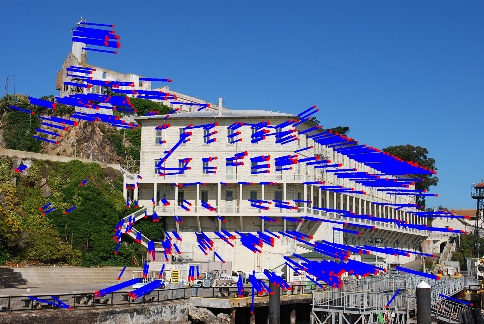
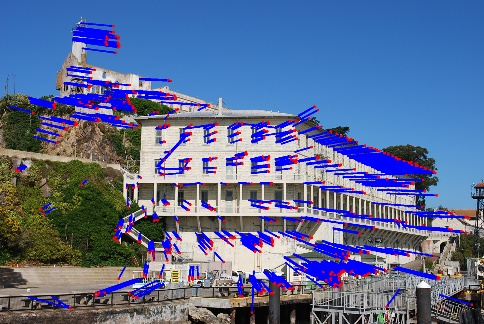
-

diff --git a/vision/vision_20recons/vision_20recons.tex b/vision/vision_20recons/vision_20recons.tex
@@ -2,6 +2,8 @@
 \begin{document}
 Iki Imaj Kullanarak 3 Boyutta Tekrar Olusturmak (3D Reconstruction from Two Images)
 
+Temel Matris ve 8-Nokta Algoritmasi 
+
 \begin{minted}[fontsize=\footnotesize]{python}
 from mpl_toolkits.mplot3d import axes3d
 import scipy.linalg as lin
@@ -56,34 +58,40 @@ cv2.imwrite('vision_20recons_01.jpg',tmp)
 for pt in pts2: cv2.circle(img2,tuple(pt),5,(0,0,255),-1)
 tmp = cv2.resize(img2, (int(w/4),int(h/4)))
 cv2.imwrite('vision_20recons_02.jpg',tmp)
+
+pts1 = np.array(pts1)
+pts2 = np.array(pts2)
+
+h,w,dum = img1.shape
+pts1[:,1] = h-pts1[:,1]
+pts2[:,1] = h-pts2[:,1]
 \end{minted}
 
 \begin{verbatim}
-matches 1277
-Out[1]: 
-True
+matches 1290
 \end{verbatim}
 
 \includegraphics[width=30em]{vision_20recons_01.jpg}
 
 \includegraphics[width=30em]{vision_20recons_02.jpg}
 
-
 \begin{minted}[fontsize=\footnotesize]{python}
 # kamera matrisi biliniyor
 K = np.array([[2394,0,932],[0,2398,628],[0,0,1]])
 
-h,w,dum = img1.shape
-pts1[:,1] = h-pts1[:,1]
-pts2[:,1] = h-pts2[:,1]
-
 F, mask = cv2.findFundamentalMat(pts1,pts2)
 
 E = K.T.dot(F).dot(K)
+print F
 
 R1,R2,t = cv2.decomposeEssentialMat(E)
 \end{minted}
 
+\begin{verbatim}
+[[ -5.44722052e-08   9.22019433e-07   1.17985628e-03]
+ [ -1.26508496e-06   7.74814744e-07   1.15134028e-02]
+ [ -1.29297913e-03  -1.31947419e-02   1.00000000e+00]]
+\end{verbatim}
 
 \begin{minted}[fontsize=\footnotesize]{python}
 def triangulate_point(u1, u2, P1, P2):
@@ -104,7 +112,6 @@ def triangulate_point(u1, u2, P1, P2):
 def triangulate(x1, x2, P1, P2):
   X = [triangulate_point(x1[i, :], x2[i, :], P1, P2) for i in range(len(x1))]
   return np.array(X).T
-
 
 P1 = np.eye(4)
 P2 = np.array([[ 0.878, -0.01 ,  0.479, -1.995],
@@ -136,13 +143,10 @@ x [ 0.09099773  0.36408896  1.        ]
 x2 [ 0.4200205   0.38890029  1.        ]
 \end{verbatim}
 
-
 \begin{minted}[fontsize=\footnotesize]{python}
 for i,P in enumerate(((R1,t),(R1,-t),(R2,t),(R2,-t))):
 
     P1 = K.dot(np.hstack(P))       # Projection matrix of second cam is ready
-    print 'P', P1
-
     P00 = np.float64([ [1,0,0,0],
                        [0,1,0,0],
                        [0,0,1,0]   ]) # Projection matrix of first cam at origin
@@ -154,9 +158,13 @@ for i,P in enumerate(((R1,t),(R1,-t),(R2,t),(R2,-t))):
     ax = fig.gca(projection='3d')    
     ax.plot(X[0], X[2], X[1], 'r.')
     ax.view_init(elev=23., azim=-67)
-    plt.savefig('thd_03_%d.png' % i)
+    plt.savefig('vision_20recons_03_%d.png' % i)
 \end{minted}
 
+\includegraphics[width=20em]{vision_20recons_03_0.png}
+\includegraphics[width=20em]{vision_20recons_03_1.png}
+\includegraphics[width=20em]{vision_20recons_03_2.png}
+\includegraphics[width=20em]{vision_20recons_03_3.png}
 
 
 
